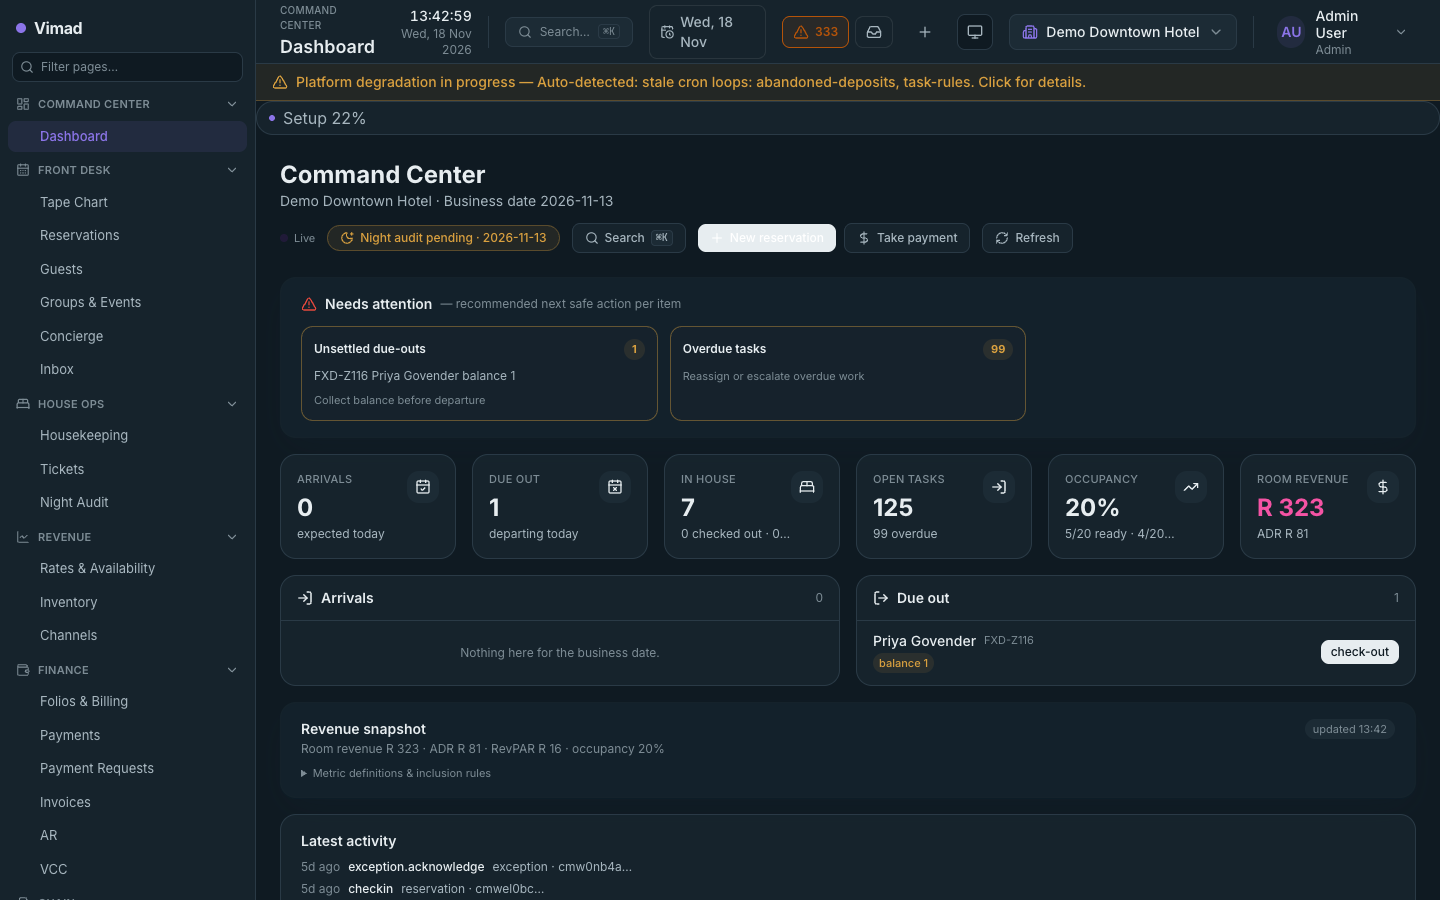
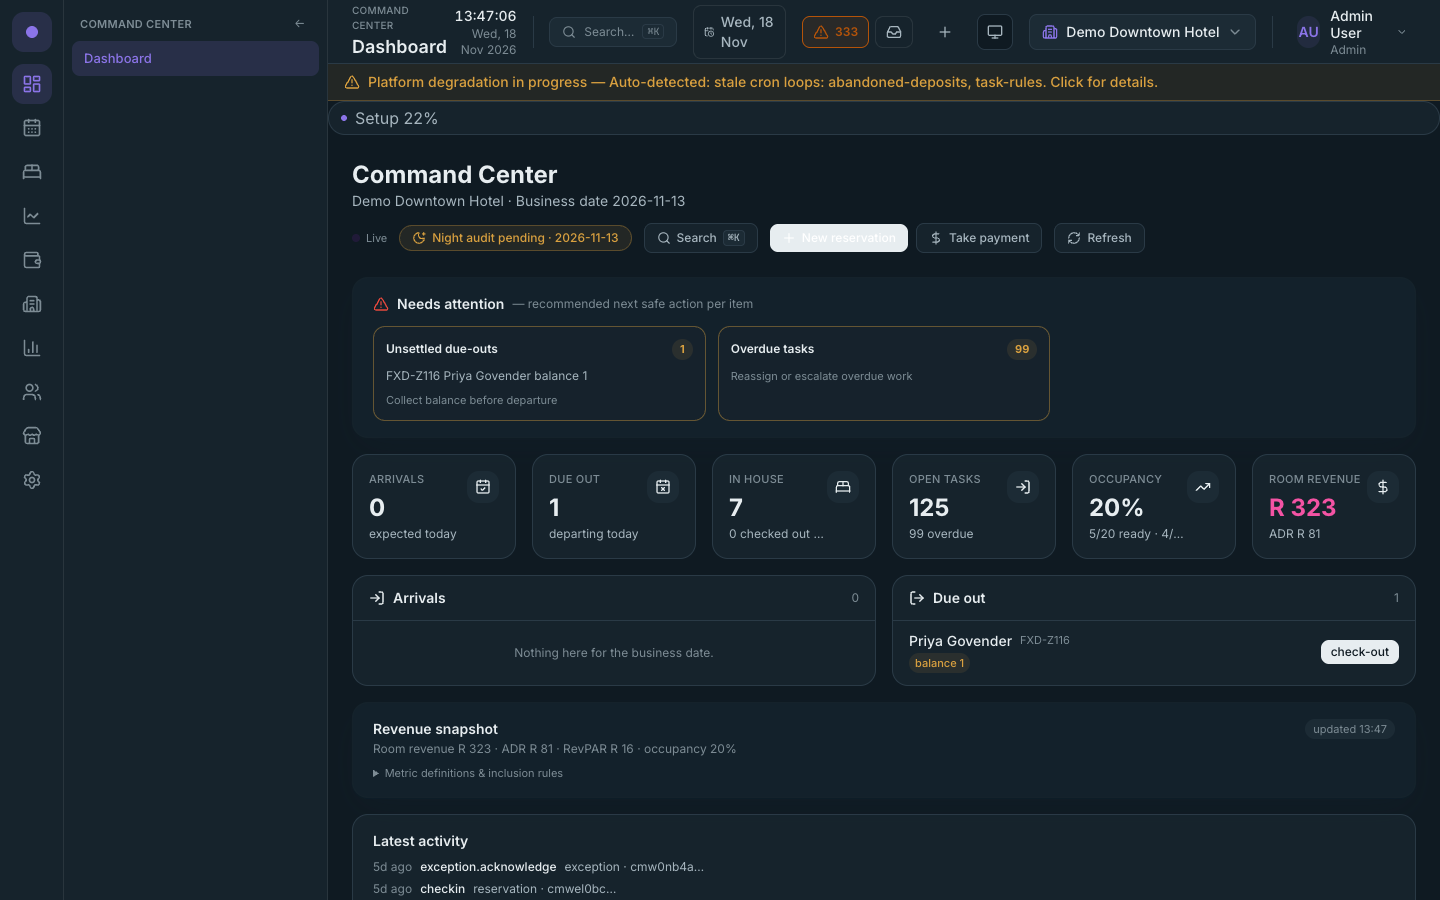
feat(web): rail-and-flyout sidebar chassis (64px rail + 264px flyout, hover preview, palette replaces filter)

diff --git a/apps/web/src/components/layout/Sidebar.tsx b/apps/web/src/components/layout/Sidebar.tsx
@@ -1,136 +1,153 @@
 /* apps/web/src/components/layout/Sidebar.tsx
- * Job-based sidebar (roadmap audit §5.1, Phase 3 nav restructure).
- * LINKS ONLY — no routes moved, no files renamed, no pages displaced; every
- * destination already exists in the app (see src/lib/navGroups.js).
- * Rollback: restore Sidebar.tsx.pre-nav-restructure.bak (or git checkout).
- * Permissions note: navigation is discoverability, not a security boundary;
- * server-side authorization and tenant/property scoping are unchanged (§9).
+ * Rail-and-flyout chassis sidebar (blueprint S4, Phase 3).
+ * 64px icon rail + 264px flyout panel. Hover previews a group, click pins
+ * it, state persists in localStorage. Chain group stays context-gated.
+ * The filter input is gone — the command palette (Cmd-K) is search.
+ * Permissions: nav is discoverability, not a security boundary (server
+ * authorization unchanged); role-based projection lands with the useAuth
+ * census (P3.2b). Ribbon collapse <1200px + phone sheet land in P3.2b with
+ * the layout pass.
  */
 import { useMemo, useState } from 'react';
 import { Link, useLocation } from 'react-router-dom';
-import { ChevronDown, Search } from 'lucide-react';
-import { NAV_GROUPS } from '../../lib/navGroups';
 import { useQuery } from '@tanstack/react-query';
 import { getScope } from '../../api/chains';
+import { NAV_GROUPS } from '../../lib/navGroups';
 import { cn } from '../../lib/utils';
 
-const COLLAPSED_KEY = 'nav.groups.collapsed';
+const UI_KEY = 'nav.chassis.v1';
 
-function loadCollapsed(): Record<string, boolean> {
+type UiState = { open: boolean; group: string };
+
+function loadUi(): UiState {
   try {
-    return JSON.parse(localStorage.getItem(COLLAPSED_KEY) ?? '{}');
+    const raw = JSON.parse(localStorage.getItem(UI_KEY) ?? '{}');
+    return { open: raw.open !== false, group: raw.group ?? 'command' };
   } catch {
-    return {};
+    return { open: true, group: 'command' };
   }
 }
 
 export function Sidebar({ onNavigate }: { onNavigate?: () => void } = {}) {
   const { pathname } = useLocation();
-  const [collapsed, setCollapsed] = useState<Record<string, boolean>>(() => ({
-    setup: true, // More/Setup starts collapsed; everything else open
-    ...loadCollapsed(),
-  }));
-  const [filter, setFilter] = useState('');
+  const [ui, setUi] = useState<UiState>(loadUi);
+  const [hoverGroup, setHoverGroup] = useState<string | null>(null);
 
   const isActive = (to: string) => pathname === to || pathname.startsWith(to + '/');
 
   const scopeQ = useQuery({ queryKey: ['nav-scope'], queryFn: getScope, staleTime: 60000 });
   const hasChain = (scopeQ.data?.properties?.length ?? 0) > 1;
 
-  const groups = useMemo(() => {
-    const base = NAV_GROUPS.filter((g) => g.context !== 'chain' || hasChain);
-    const q = filter.trim().toLowerCase();
-    if (!q) return base;
-    return base
-      .map((g) => ({
-        ...g,
-        items: g.items.filter((i) => i.label.toLowerCase().includes(q)),
-      }))
-      .filter((g) => g.items.length > 0 || g.label.toLowerCase().includes(q));
-  }, [filter, hasChain]);
+  const groups = useMemo(
+    () => NAV_GROUPS.filter((g) => g.context !== 'chain' || hasChain),
+    [hasChain]
+  );
 
-  const toggle = (key: string) =>
-    setCollapsed((prev) => {
-      const next = { ...prev, [key]: !prev[key] };
+  const activeKey = useMemo(() => {
+    for (const g of groups) if (g.items.some((i) => isActive(i.to))) return g.key;
+    return ui.group;
+  }, [pathname, groups, ui.group]);
+
+  const openKey = hoverGroup ?? activeKey;
+  const open = ui.open || hoverGroup !== null;
+  const openGroup = groups.find((g) => g.key === openKey) ?? groups[0];
+
+  const persist = (patch: Partial<UiState>) =>
+    setUi((prev) => {
+      const next = { ...prev, ...patch };
       try {
-        localStorage.setItem(COLLAPSED_KEY, JSON.stringify(next));
+        localStorage.setItem(UI_KEY, JSON.stringify(next));
       } catch {}
       return next;
     });
 
   return (
-    <nav
-      aria-label="Primary"
-      className="flex h-full w-64 flex-col border-r border-border bg-surface"
-    >
-      <div className="flex items-center gap-2 px-4 pb-3 pt-4">
-        <span className="h-2.5 w-2.5 rounded-full bg-primary" />
-        <span className="text-base font-bold tracking-tight text-text-primary">Vimad</span>
-      </div>
-
-      <div className="px-3 pb-2">
-        <div className="relative">
-          <Search className="pointer-events-none absolute left-2 top-1/2 h-3.5 w-3.5 -translate-y-1/2 text-text-muted" />
-          <input
-            value={filter}
-            onChange={(e) => setFilter(e.target.value)}
-            placeholder="Filter pages…"
-            aria-label="Filter navigation"
-            className="w-full rounded-md border border-border bg-background py-1.5 pl-7 pr-2 text-xs text-text-primary placeholder:text-text-muted focus:outline-none focus:ring-1 focus:ring-primary/40"
-          />
-        </div>
-      </div>
-
-      <div className="min-h-0 flex-1 overflow-y-auto px-2 pb-4">
-        {groups.map((group) => {
-          const hasActive = group.items.some((i) => isActive(i.to));
-          const isOpen = filter ? true : !collapsed[group.key];
-          const Icon = group.icon;
+    <div className="flex h-full" onMouseLeave={() => setHoverGroup(null)}>
+      <nav
+        aria-label="Primary"
+        className="flex h-full w-16 flex-col items-center gap-1 border-r py-3"
+        style={{ borderColor: 'var(--hq-hairline)', background: 'var(--hq-surface-1)' }}
+      >
+        <Link
+          to="/app/dashboard"
+          aria-label="Command Center"
+          onClick={onNavigate}
+          className="mb-2 flex h-10 w-10 items-center justify-center rounded-lg"
+          style={{ background: 'var(--hq-accent-soft)' }}
+        >
+          <span className="h-3 w-3 rounded-full" style={{ background: 'var(--primary)' }} />
+        </Link>
+        {groups.map((g) => {
+          const Icon = g.icon;
+          const active = g.key === activeKey;
           return (
-            <div key={group.key} className="mb-1">
-              <button
-                type="button"
-                onClick={() => toggle(group.key)}
-                aria-expanded={isOpen}
-                className={cn(
-                  'flex w-full items-center gap-2 rounded-md px-2 py-1.5 text-left text-[11px] font-semibold uppercase tracking-wide hover:text-text-primary',
-                  hasActive && !isOpen ? 'text-primary' : 'text-text-muted'
-                )}
-              >
-                <Icon className="h-3.5 w-3.5" />
-                <span className="flex-1">{group.label}</span>
-                <ChevronDown
-                  className={cn('h-3.5 w-3.5 transition-transform', !isOpen && '-rotate-90')}
-                />
-              </button>
-              {isOpen && (
-                <ul className="mt-0.5 space-y-0.5">
-                  {group.items.map((item) => (
-                    <li key={item.to}>
-                      <Link
-                        to={item.to}
-                        onClick={onNavigate}
-                        className={cn(
-                          'block rounded-md px-2 py-1.5 pl-8 text-[13px]',
-                          isActive(item.to)
-                            ? 'bg-primary/10 font-medium text-primary'
-                            : 'text-text-secondary hover:bg-surface-elevated hover:text-text-primary'
-                        )}
-                      >
-                        {item.label}
-                      </Link>
-                    </li>
-                  ))}
-                </ul>
+            <button
+              key={g.key}
+              type="button"
+              title={g.label}
+              aria-label={g.label}
+              aria-current={active ? 'true' : undefined}
+              onClick={() => persist({ group: g.key, open: true })}
+              onMouseEnter={() => setHoverGroup(g.key)}
+              className={cn(
+                'flex h-10 w-10 items-center justify-center rounded-lg transition-colors',
+                active
+                  ? 'text-[var(--primary)]'
+                  : 'text-[var(--text-muted)] hover:text-[var(--text-primary)]'
               )}
-            </div>
+              style={active ? { background: 'var(--hq-accent-soft)' } : undefined}
+            >
+              <Icon className="h-5 w-5" />
+            </button>
           );
         })}
-        {groups.length === 0 && (
-          <p className="px-2 py-4 text-xs text-text-muted">No pages match this filter.</p>
-        )}
-      </div>
-    </nav>
+      </nav>
+
+      {open && openGroup && (
+        <div
+          className="flex h-full w-[264px] flex-col border-r"
+          style={{ borderColor: 'var(--hq-hairline)', background: 'var(--hq-surface-1)' }}
+          onMouseEnter={() => setHoverGroup(openGroup.key)}
+        >
+          <header className="flex items-center justify-between px-4 pb-2 pt-4">
+            <h2
+              className="text-[11px] font-semibold uppercase tracking-wide"
+              style={{ color: 'var(--text-muted)' }}
+            >
+              {openGroup.label}
+            </h2>
+            <button
+              type="button"
+              aria-label="Hide panel"
+              className="rounded px-1.5 text-xs"
+              style={{ color: 'var(--text-muted)' }}
+              onClick={() => persist({ open: false })}
+            >
+              &larr;
+            </button>
+          </header>
+          <ul className="min-h-0 flex-1 space-y-0.5 overflow-y-auto px-2 pb-4">
+            {openGroup.items.map((item) => (
+              <li key={item.to}>
+                <Link
+                  to={item.to}
+                  onClick={onNavigate}
+                  className={cn(
+                    'block rounded-md px-3 py-2 text-[13px]',
+                    isActive(item.to)
+                      ? 'bg-[var(--hq-accent-soft)] font-medium text-[var(--primary)]'
+                      : 'hover:bg-[var(--hq-surface-2)]'
+                  )}
+                  style={!isActive(item.to) ? { color: 'var(--text-secondary)' } : undefined}
+                >
+                  {item.label}
+                </Link>
+              </li>
+            ))}
+          </ul>
+        </div>
+      )}
+    </div>
   );
 }
 
